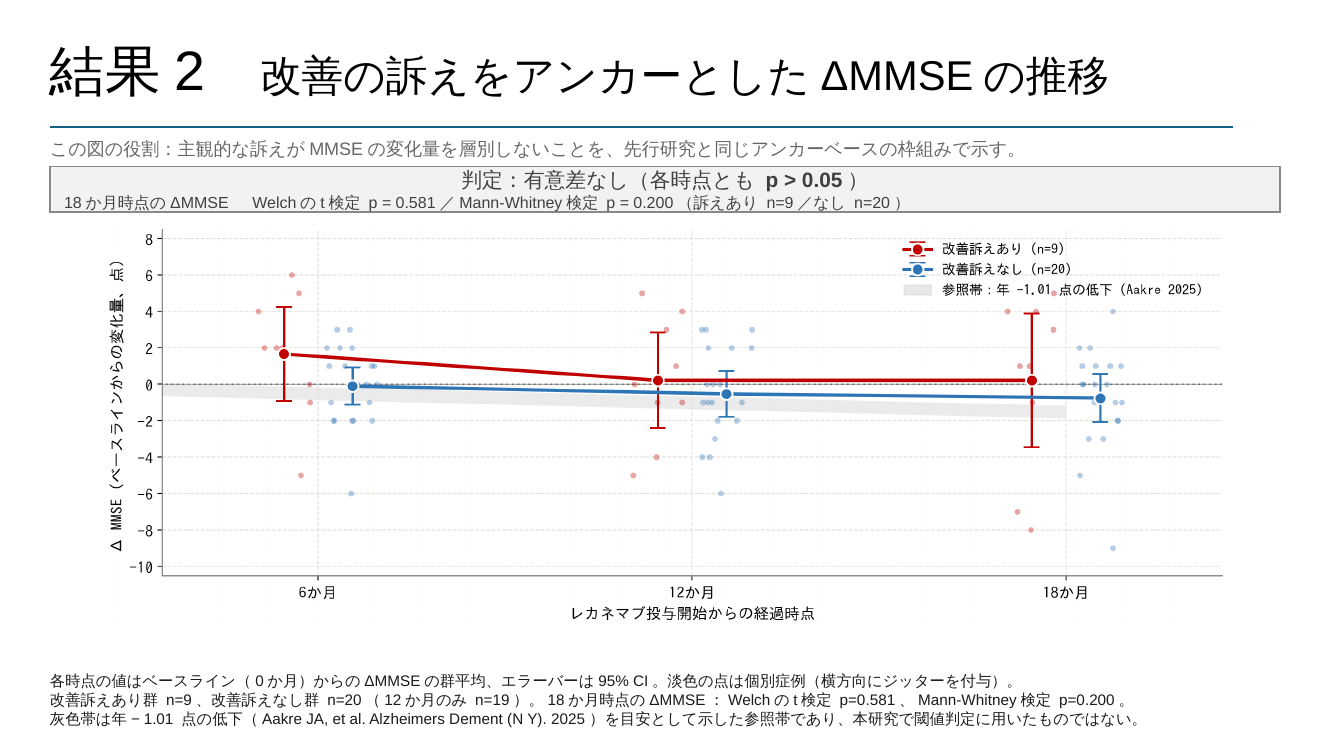
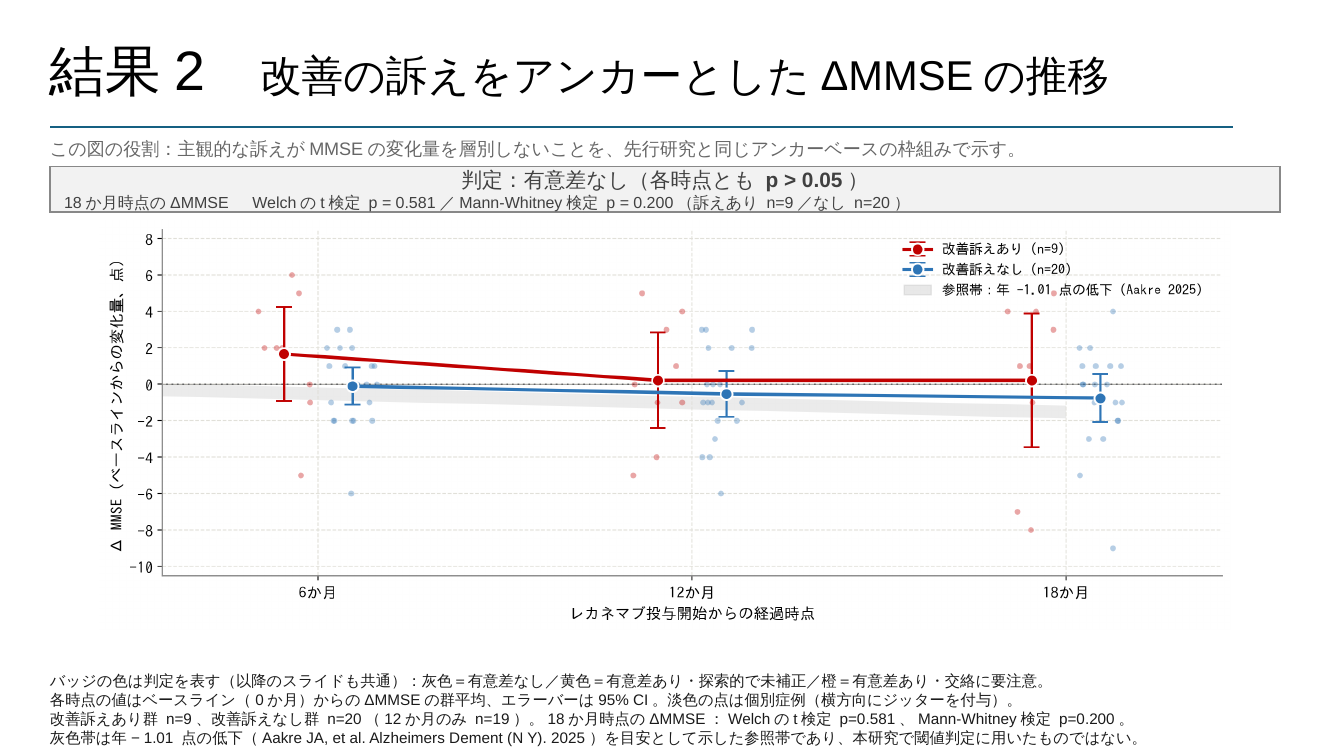
Add badge color legend and verify pptx is freely editable
- 結果2・統計結果まとめのキャプションに、バッジ3色（灰色/黄色/橙色）
  の意味を説明する凡例行を追加
- バッジ（判定帯）の読み方.md として、色分けの根拠と全バッジの文言
  一覧を文書化
- pptxの編集可能性を検証：ZIP破損なし、python-pptxでの往復読み込み
  OK、パスワード保護・シート保護等の制限要素は一切なし、フォント埋
  め込みなし。検出されたnoGrp/noChangeAspectはテーブル・画像の標準
  デフォルト属性であり編集を妨げないことを確認し、編集可能性チェッ
  ク結果.md にまとめた

Claude-Session: https://claude.ai/code/session_017gpt5djXmQgr4MUMmhAU2d

Changed region(s): [[0.0307, 0.8893, 0.8606, 1.0]]

diff --git a/analysis/06_build_pptx.py b/analysis/06_build_pptx.py
@@ -217,7 +217,8 @@ def build_summary_slide(prs):
         _style_cell(table.cell(r, 4), verdict, size=10.5, bold=True, color=vtext, align="c", fill=vfill)
 
     add_textbox(slide, CAP,
-               ["有意水準はいずれも α=0.05（両側）。結果3の「有意差あり」は事後的に定義した指標で多重比較の補正をしておらず、探索的所見として扱う。",
+               ["判定列の色：灰色＝有意差なし／黄色＝有意差あり・探索的で未補正／橙＝有意差あり・交絡に要注意（各スライドのバッジと共通の配色）。",
+                "有意水準はいずれも α=0.05（両側）。結果3の「有意差あり」は事後的に定義した指標で多重比較の補正をしておらず、探索的所見として扱う。",
                 "参考2の相関はΔMMSEがベースラインを含んで計算される値であるため、平均への回帰（regression to the mean）を数学的に含み、因果的な解釈はできない。",
                 "上記以外の解析（結果2〜5・参考2）はいずれも有意差なし。データの詳細は各スライドのキャプション・スピーカーノートを参照。"],
                10.5, DARK, spacing=1.15)
@@ -246,7 +247,8 @@ s = add_slide(
     "　改善の訴えをアンカーとしたΔMMSEの推移",
     "この図の役割：主観的な訴えがMMSEの変化量を層別しないことを、先行研究と同じアンカーベースの枠組みで示す。",
     FIGD / "slide_ΔMMSE_アンカー別推移.png",
-    ["各時点の値はベースライン（0か月）からのΔMMSEの群平均、エラーバーは95% CI。淡色の点は個別症例（横方向にジッターを付与）。",
+    ["バッジの色は判定を表す（以降のスライドも共通）：灰色＝有意差なし／黄色＝有意差あり・探索的で未補正／橙＝有意差あり・交絡に要注意。",
+     "各時点の値はベースライン（0か月）からのΔMMSEの群平均、エラーバーは95% CI。淡色の点は個別症例（横方向にジッターを付与）。",
      "改善訴えあり群 n=9、改善訴えなし群 n=20（12か月のみ n=19）。18か月時点のΔMMSE：Welchのt検定 p=0.581、Mann-Whitney検定 p=0.200。",
      "灰色帯は年 −1.01 点の低下（Aakre JA, et al. Alzheimers Dement (N Y). 2025）を目安として示した参照帯であり、本研究で閾値判定に用いたものではない。"],
     badge=("有意差なし（各時点とも p > 0.05）",

diff --git a/output/バッジ（判定帯）の読み方.md b/output/バッジ（判定帯）の読み方.md
@@ -1,0 +1,38 @@
+# バッジ（判定帯）の読み方
+
+結果2以降の各スライドで、サブタイトルの下に置いた色つきの帯（バッジ）が何を意味するかをまとめる。全スライド共通の配色で、結果2のキャプション1行目と「統計結果まとめ」スライドのキャプション1行目にも同じ説明を記載してある。
+
+## 3色の意味
+
+| 色 | 見た目 | 意味 | 使われているスライド |
+|---|---|---|---|
+| **灰色** | 薄い灰色の帯 | **有意差なし**（p ≥ 0.05）。標準的な検定で群間に統計的な差が確認できなかったことを示す。 | 結果2、結果4 |
+| **黄色** | 薄い黄色の帯 | **有意差あり（探索的・未補正）**。p < 0.05 ではあるが、①事前に立てた仮説ではなく図を見てから事後的に定義した指標である、②多重比較の補正をしていない、のいずれかに該当し、確証的な所見としては扱わないもの。 | 結果3、参考1 |
+| **橙色** | 薄い橙色の帯 | **有意（要注意：交絡の可能性あり）**。p < 0.05 で統計的には有意だが、平均への回帰など交絡を生みうる要因を数学的に含み、額面通りの因果関係として読めないもの。 | 参考2 |
+
+## 具体例：結果2の灰色の帯
+
+結果2のバッジには次のように書かれている。
+
+> **判定：有意差なし（各時点とも p > 0.05）**
+> 18か月時点のΔMMSE　Welchのt検定 p = 0.581／Mann-Whitney検定 p = 0.200（訴えあり n=9／なし n=20）
+
+これは、「主観的な改善の訴え」というアンカーで2群に分けても、ΔMMSE（ベースラインからの変化量）の推移に統計的な差がなかった、という意味である。灰色は「差がなかった」という結論を、赤や青（データの色）と混同しないよう、あえて中立的な色にしてある。
+
+## なぜこの3色にしたか
+
+- 装飾的なグラデーションや派手な色は使わず、結果1・結果5の既存デザイン（白背景・フラットな配色）に合わせてある。
+- 「有意差なし」を目立たせない色（灰色）、「有意だが留保が必要」を目立たせる色（黄色・橙色）にすることで、**本研究の結論の中心（差がないこと）が地味に、例外的な所見（要注意な有意差）が目立つように**設計している。これは「陰性所見を隠さず、かつ誤読されやすい“有意”な所見にはより強い注意喚起をする」という意図による。
+- 黄色と橙色を分けたのは、「有意差ありだがまだ確認が必要」という共通点はあるものの、**問題の種類が違う**ため。黄色（結果3）は解析方法（事後的・未補正）に起因する留保、橙色（参考2）はデータの構造（平均への回帰）に起因する留保であり、対処の仕方が異なる。
+
+## 各バッジの全文
+
+| スライド | 判定文 | 詳細文 |
+|---|---|---|
+| 結果2 | 有意差なし（各時点とも p > 0.05） | 18か月時点のΔMMSE　Welchのt検定 p = 0.581／Mann-Whitney検定 p = 0.200（訴えあり n=9／なし n=20） |
+| 結果3 | 個人内変動幅は有意差あり（探索的）／分散(Levene)は有意差なし | 変動幅の中央値差　Mann-Whitney検定 p = 0.034　｜　Δ18MのSD比較　Levene検定 p = 0.146（n=9 vs 20、多重比較未補正） |
+| 結果4 | MMSE下位項目 11/11・CDR 6/6 いずれも有意差なし | MMSE下位項目 最小 p = 0.157（FDR補正後 最小 q = 0.778）／CDR6領域 最小 p = 0.598。補正前の段階から有意な項目はゼロ。 |
+| 参考1 | 結果3と同一データの検定結果（詳細は結果3を参照） | 個人内変動幅　Mann-Whitney検定 p = 0.034（探索的）　｜　Δ18MのSD　Levene検定 p = 0.146（有意差なし） |
+| 参考2 | 相関は統計的に有意（ただし平均への回帰を含み因果解釈は不可） | ベースラインMMSEと18か月ΔMMSEの相関（29例）　Pearson相関 r = −0.50, p = 0.006 |
+
+（結果5・結果1は指示書の方針により改変していないため、バッジは付けていない。結果5の統計値はスライド本文のキャプションに元から記載されている。）

diff --git a/output/編集可能性チェック結果.md b/output/編集可能性チェック結果.md
@@ -1,0 +1,40 @@
+# PowerPointファイルの編集可能性チェック
+
+`8月5日に見せるスライド_更新版.pptx` を、上野先生への発表後にご自身で自由に編集していただけるか検証した結果。
+
+## 検証項目と結果
+
+| # | 項目 | 結果 |
+|---|---|---|
+| 1 | ZIPファイル（.pptxの実体）の破損チェック | **異常なし** |
+| 2 | python-pptxでの再読み込み（往復検証） | **正常に9枚を読み込み** |
+| 3 | 編集を制限する要素（パスワード保護・シート保護・書き込み禁止フラグ）の全パーツ検索 | **一切なし** |
+| 4 | Officeの「読み取り専用推奨」属性（DocSecurity） | **設定なし（制限なし）** |
+| 5 | フォントの埋め込み | **埋め込みなし。Arial書体のみ指定（一般的なPCで編集可能）** |
+
+検索した保護系の要素（`documentProtection`、`sldProtection`、`modifyVerifier`、`noEdit`、`noSelect` など）は全パーツを通じて1件もヒットしませんでした。
+
+## 補足：検出された「ロック」属性について
+
+検索の過程で `noGrp`（グループ化禁止）・`noChangeAspect`（縦横比固定）という属性が見つかりましたが、これらは**編集の妨げにはなりません**。
+
+- **`noGrp`**：テーブル（結果1の患者背景表、統計結果まとめの表）に付いています。「他の図形と一緒にグループ化できない」という意味で、PowerPointが表を挿入するときに自動で付ける標準の初期値です。表そのものの移動・サイズ変更・セルの編集・行列の追加削除は問題なく行えます。
+- **`noChangeAspect`**：貼り付けた図（matplotlibで作成したグラフ画像）に付いています。「四隅のハンドルでリサイズすると縦横比が保たれる」という初期設定で、PowerPointの「図の書式設定」から画像を選ぶと誰でも簡単にオン・オフを切り替えられます。移動・削除・差し替えは制限されません。
+
+どちらも新規に追加した部分だけでなく、**先生から元々いただいたファイルの結果1・結果5にも同じ属性が入っています**。特別な処置をしたわけではなく、PowerPoint・python-pptxの標準的な挙動です。
+
+## 結論
+
+**このファイルはPowerPointで開けば、通常のファイルと同じように自由に編集できます。**
+
+- テキスト（タイトル、サブタイトル、キャプション、バッジの文言）：直接クリックして書き換え可能
+- バッジの色：図形を選択し「図形の書式設定」から塗りつぶし色を変更可能
+- 「統計結果まとめ」の表：セルの追加・削除・文言変更が可能
+- グラフ画像（結果2〜4、参考1・2）：matplotlibで作成した画像のため、**画像自体の差し替え・移動・削除は自由**にできますが、**画像内部のグラフを直接編集することはできません**（元データを直接編集したい場合は `analysis/` フォルダのPythonスクリプトを再実行して画像を作り直す必要があります）
+- 結果1・結果5のグラフ（結果5の折れ線グラフ）：**唯一ネイティブのPowerPointグラフ**のため、データ・色・軸などをPowerPoint上で直接編集できます
+
+## ご注意（編集時に気をつけていただきたい点）
+
+1. バッジの色や文言を変更した場合、`output/バッジ（判定帯）の読み方.md` の記載と食い違わないよう、両方を更新することをお勧めします。
+2. 画像（グラフ）を差し替える場合、`analysis/05_slide_figures.py` を編集して再生成したPNGに置き換えると、解析結果との整合性を保てます。
+3. スライドの順序を入れ替える場合、スピーカーノートに「結果Nを参照」といった相互参照の記述があるため、齟齬がないか確認してください。
